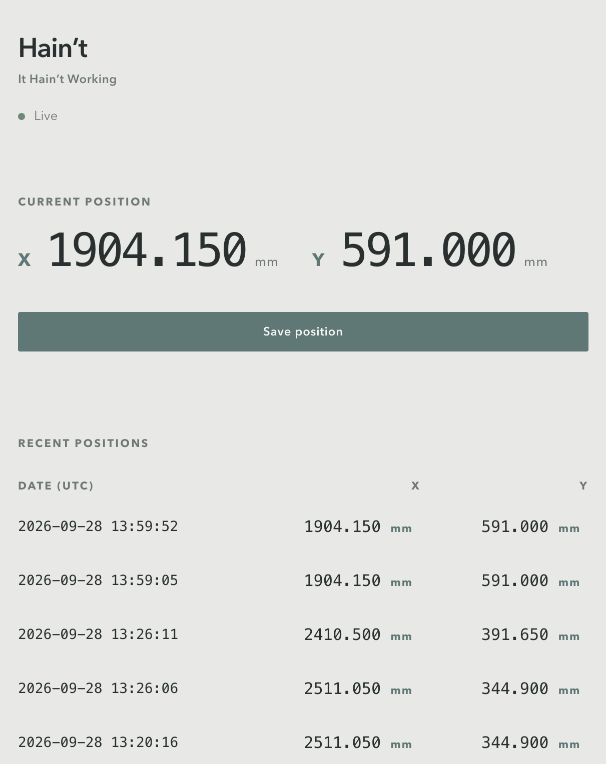
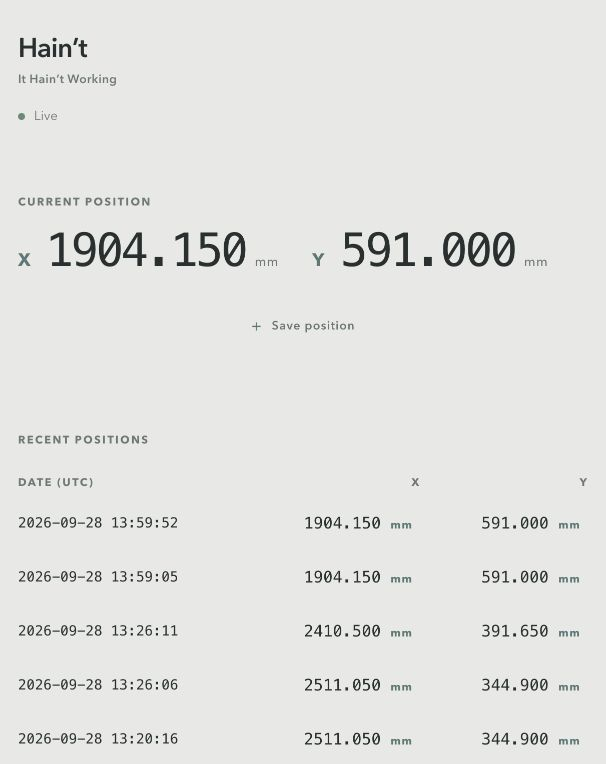
style: reduce save position prominence

diff --git a/app/static/index.html b/app/static/index.html
@@ -89,23 +89,35 @@
     }
 
     button {
-      display: block;
+      display: flex;
+      align-items: center;
+      justify-content: center;
+      gap: 10px;
       width: 100%;
-      margin-top: 38px;
+      min-height: 44px;
+      margin-top: 30px;
       appearance: none;
       border: 0;
-      border-radius: 2px;
-      padding: 13px 16px 12px;
-      background: var(--accent);
-      color: #f4f5f2;
+      padding: 10px 16px;
+      background: transparent;
+      color: var(--secondary);
       cursor: pointer;
       font: 600 12px/1.2 "Avenir Next", Avenir, "Helvetica Neue", Arial, sans-serif;
-      letter-spacing: .035em;
+      letter-spacing: .055em;
     }
 
-    button:hover:not(:disabled) { background: #506663; }
-    button:focus-visible { outline: 2px solid var(--ink); outline-offset: 3px; }
-    button:disabled { cursor: default; opacity: .38; }
+    .save-mark {
+      color: var(--accent);
+      font: 500 16px/1 "SFMono-Regular", Consolas, "Liberation Mono", monospace;
+    }
+
+    button:hover:not(:disabled) {
+      background: rgb(96 120 117 / 6%);
+      color: var(--ink);
+    }
+
+    button:focus-visible { outline: 2px solid var(--accent); outline-offset: -2px; }
+    button:disabled { cursor: default; opacity: .32; }
 
     .coordinate-line {
       display: grid;
@@ -247,7 +259,7 @@
         <span id="current-y" class="reading missing">—</span>
       </div>
     </div>
-    <button id="save-position" type="button" disabled>Save position</button>
+    <button id="save-position" type="button" disabled><span class="save-mark" aria-hidden="true">+</span><span>Save position</span></button>
   </section>
 
   <section class="history" aria-labelledby="history-label">
